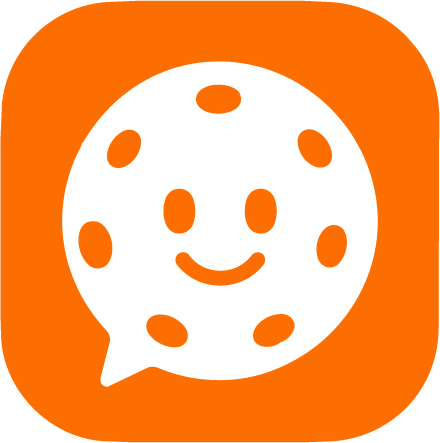
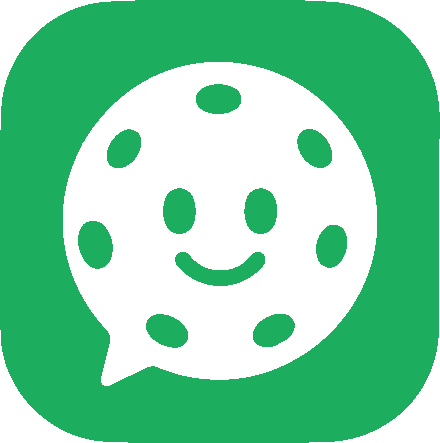
기능/디자인: 로고 그린으로 교체(로고마크·히어로 아이콘·워드마크·파비콘 4종 #1CAD5E) + 사이트 전체 배경색을 관리자에서 색상 선택으로 변경 가능하게(color kind, layout에서 --bg 주입)

diff --git a/app/admin/components/AdminList.js b/app/admin/components/AdminList.js
@@ -297,6 +297,14 @@ function CopyRow({ slug, row, onSaved }) {
       </div>
       {row.kind === "image" ? (
         <ImageUpload label="" hint={meta.hint} value={val} onChange={(url) => setVal(url)} />
+      ) : row.kind === "color" ? (
+        <div style={{ display: "flex", alignItems: "center", gap: 10, flexWrap: "wrap" }}>
+          <input type="color" style={{ width: 46, height: 38, padding: 0, border: "1px solid #ddd", borderRadius: 8, cursor: "pointer" }}
+            value={/^#[0-9a-fA-F]{6}$/.test(val) ? val : "#f4eefb"} onChange={(e) => setVal(e.target.value)} />
+          <input type="text" style={{ width: 160 }} value={val} onChange={(e) => setVal(e.target.value)} placeholder="#f4eefb" />
+          {val && <button type="button" className="a-btn a-btn--sm" onClick={() => setVal("")}>기본값으로</button>}
+          <span style={{ fontSize: 12, color: "#888" }}>비우면 기본 라벤더</span>
+        </div>
       ) : row.kind === "textarea" || row.kind === "list" ? (
         <textarea rows={row.kind === "list" ? 6 : 3} value={val} onChange={(e) => setVal(e.target.value)} placeholder={meta.placeholder} />
       ) : (

diff --git a/app/layout.js b/app/layout.js
@@ -1,6 +1,9 @@
 import { Anton, Archivo, Space_Mono } from "next/font/google";
 import "./globals.css";
 import Fx from "./components/Fx";
+import { getCopyValue } from "./lib/copy";
+
+export const dynamic = "force-dynamic";
 
 // 헤비 콘덴스드 대문자 디스플레이 — 히어로/워드마크/큰 제목.
 const anton = Anton({
@@ -40,9 +43,14 @@ export const metadata = {
   icons: { icon: "/logo.png" },
 };
 
-export default function RootLayout({ children }) {
+export default async function RootLayout({ children }) {
+  // 관리자에서 고른 배경색(없으면 CSS 기본 라벤더). --bg-2는 살짝 짙게 자동 파생.
+  const bg = await getCopyValue("site.bgColor", "");
+  const bgStyle = /^#[0-9a-fA-F]{6}$/.test(bg)
+    ? { "--bg": bg, "--bg-2": `color-mix(in srgb, ${bg}, #000 7%)` }
+    : undefined;
   return (
-    <html lang="ko" className={`${anton.variable} ${archivo.variable} ${spaceMono.variable}`}>
+    <html lang="ko" className={`${anton.variable} ${archivo.variable} ${spaceMono.variable}`} style={bgStyle}>
       <head>
         <link
           rel="stylesheet"

diff --git a/prisma/seed.js b/prisma/seed.js
@@ -47,6 +47,7 @@ const TA = (key, label, value) => T(key, label, value, { kind: "textarea" });
 const URL_ = (key, label, value) => T(key, label, value, { kind: "url" });
 const LIST = (key, label, value) => T(key, label, value, { kind: "list" }); // 한 줄에 하나씩
 const IMG = (key, label, value) => T(key, label, value, { kind: "image" });
+const CLR = (key, label, value) => T(key, label, value, { kind: "color" }); // 색상 선택
 
 const SITE_COPY = [
   // ── 사이트 정보(전역)
@@ -66,6 +67,7 @@ const SITE_COPY = [
     T("site.bizCeo", "대표자명", "조민정"),
     T("site.bizNo", "사업자등록번호", "407-10-93280"),
     TA("site.footerTagline", "푸터 소개 문구", "피클볼을 치고, 웃고, 연결되며 일상에 즐거움을 선물하는 공간. Play, Smile, Connect."),
+    CLR("site.bgColor", "사이트 전체 배경색", ""),
   ].map((c, i) => ({ ...c, group: "site", sortOrder: i })),
 
   // ── 홈
